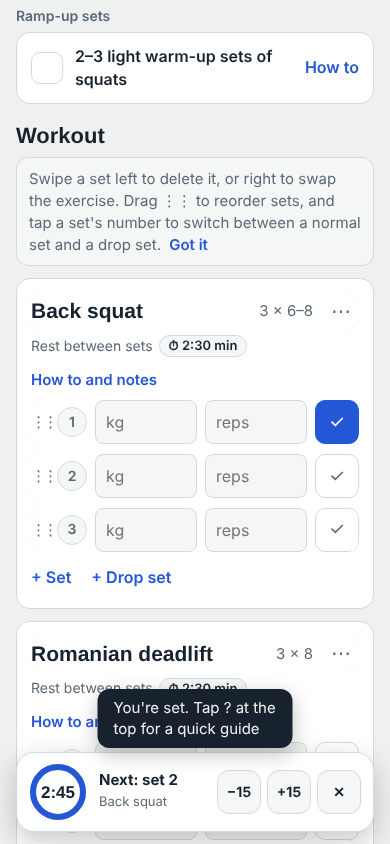
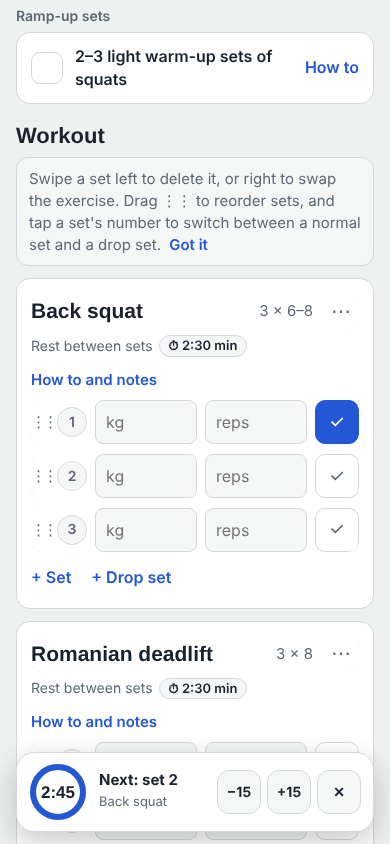
Add guided tour after setup
Dims the screen and highlights each part of the app in turn with a
short explanation. Can be replayed from the help guide.

Claude-Session: https://claude.ai/code/session_01PPQnAJQwZUgLDScDXN9x8H

Changed region(s): [[0.2462, 0.8009, 0.7692, 0.9242]]

diff --git a/index.html b/index.html
@@ -292,6 +292,22 @@ dialog.sheet::backdrop{background:rgba(0,0,0,.45)}
 .appname{display:flex;align-items:center;gap:8px;font-family:"Barlow Condensed","Arial Narrow",Arial,sans-serif;font-size:21px;font-weight:700;color:var(--ink)}
 .logo{display:block;width:30px;height:30px}
 .logo svg,.logo img{display:block;border-radius:7px}
+#tour{position:fixed;inset:0;z-index:60;display:none;touch-action:none}
+#tour.on{display:block}
+#tour .tspot{position:fixed;border-radius:14px;box-shadow:0 0 0 200vmax rgba(8,12,18,.66);transition:all .28s ease;pointer-events:none}
+#tour .tspot.ring{outline:2px solid #fff;outline-offset:2px}
+#tour .tcard{position:fixed;left:16px;right:16px;max-width:420px;margin:0 auto;background:var(--surface);color:var(--ink);border-radius:16px;padding:16px;box-shadow:0 12px 36px rgba(0,0,0,.35);transition:top .28s ease}
+#tour .tstep{font-size:12px;font-weight:700;letter-spacing:.06em;text-transform:uppercase;color:var(--muted)}
+#tour .tcard h3{font-size:24px;margin:4px 0 6px}
+#tour .tcard p{margin:0 0 12px;font-size:15px}
+#tour .tbtns{display:flex;align-items:center;gap:8px}
+#tour .tbtns .btn{margin:0;width:auto;flex:1}
+#tour .tskip{border:0;background:none;color:var(--muted);text-decoration:underline;padding:10px 4px;font-size:14px;margin-right:auto}
+#tour .tdots{display:flex;gap:4px;margin:0 0 10px}
+#tour .tdots i{width:6px;height:6px;border-radius:50%;background:var(--line)}
+#tour .tdots i.on{background:var(--blue)}
+body.touring{overflow:hidden}
+@media (prefers-reduced-motion: reduce){#tour .tspot,#tour .tcard{transition:none}}
 .appicons{display:flex;gap:8px}
 body.onboarding .top,body.onboarding .week,body.onboarding .tabs{display:none}
 body.onboarding .welcome{margin-top:12px}
@@ -1349,7 +1365,7 @@ function guessStore(n){return "Supermarket";}
 function products(){
   const S=store.settings;if(Array.isArray(S.products))return S.products;
   const out=prices().map((p,i)=>({id:"p"+i,n:String(p.n).replace(/\s*\(Naanhof\)/,""),store:guessStore(p.n),price:num(p.e),mode:"packs",q:num(p.q)}));
-  const c=chick();out.push({id:"pc",n:"Chicken, "+c.packKg+" kg pack",store:"Naanhof",price:num(c.packEur),mode:"grams",packG:num(c.packKg)*1000,gpd:num(c.g)});
+  const c=chick();out.push({id:"pc",n:"Chicken, "+c.packKg+" kg pack",store:"Supermarket",price:num(c.packEur),mode:"grams",packG:num(c.packKg)*1000,gpd:num(c.g)});
   return out;
 }
 function ensureProducts(){const S=store.settings;if(!Array.isArray(S.products))S.products=JSON.parse(JSON.stringify(products()));return S.products;}
@@ -1541,13 +1557,13 @@ $("panel").addEventListener("click",e=>{
   }
   else if(act==="welcome"){S.welcomed=true;persist("settings");renderTrain();}
   else if(act==="welcomeskip"||act==="welcomecalc"){welcomeManual=act==="welcomeskip";renderTrain();}
-  else if(act==="welcomeman"){if(!(num(S.kcal)>0&&num(S.protein)>0)){toast("Enter your calories and protein");return;}S.welcomed=true;persist("settings");render();toast("You're set. Tap ? at the top for a quick guide");}
+  else if(act==="welcomeman"){if(!(num(S.kcal)>0&&num(S.protein)>0)){toast("Enter your calories and protein");return;}S.welcomed=true;persist("settings");render();if(!S.toured)setTimeout(tourStart,350);}
   else if(act==="welcomego"){const pf=Object.assign({sex:"m",act:1.55,goal:-550},S.profile||{});
     if(!S.profile&&latestWeight())pf.w=latestWeight();
     const r=calcTargets(pf);if(!r){toast("Fill in your age, height and weight");const f=document.querySelector('.welcome [data-pf="a"]');if(f&&!f.value)f.focus();return;}
     S.profile=pf;S.kcal=Math.round(r.kc/10)*10;S.protein=Math.round(r.prot/5)*5;S.welcomed=true;
     const t=todayKey();if(!latestWeight()&&num(pf.w)>0){ensureDay(t).weight=String(pf.w);persist("day-"+t);}
-    persist("settings");render();toast("Your targets: "+fmt(S.kcal)+" kcal and "+S.protein+" g protein a day. Tap ? for a quick guide");}
+    persist("settings");render();toast("Your targets: "+fmt(S.kcal)+" kcal and "+S.protein+" g protein a day");if(!S.toured)setTimeout(tourStart,350);}
   else if(act==="rmmeal"){
     const id=b.dataset.opt;
     if(id.startsWith("m:")){S.myMeals=myMeals().filter(x=>"m:"+x.id!==id);}
@@ -1970,6 +1986,62 @@ sheetEl.addEventListener("close",()=>{sheetEl._kind=null;});
 $("gear").addEventListener("click",openSettings);
 
 $("gear").innerHTML=gearSvg;
+// ---------- Guided tour ----------
+const TOUR=[
+  {t:"Quick tour",x:"Here's a one-minute look around the app. Tap Next to go through it, or Skip if you'd rather explore yourself."},
+  {sel:".top",t:"Moving between days",x:"Use ‹ and › to go to other days. When you're on a different day, tap Back to today under the date."},
+  {sel:"#week",t:"Your week",x:"Each circle is a day. The colour shows which workout falls on it, and it fills up as you log. Tap a circle to jump to that day."},
+  {sel:".tabs",t:"Five sections",x:"Train, Eat, Body, Spend and History. Here's what each one does."},
+  {tab:"train",sel:".dayhead",t:"Today's workout",x:"The workout planned for today and how long to rest. The dropdown swaps today's workout, and Edit workout and schedule lets you build your own split."},
+  {tab:"train",sel:".card.routine",t:"Warm-up",x:"About 5 minutes before you lift. Tick each item as you go. How to shows the steps and which muscles it loosens up."},
+  {tab:"train",sel:"article.ex .exhead",t:"Exercises",x:"Each exercise shows its sets and reps. Tap ⋯ to swap it or remove it for today. Under the name: the rest time (tap ⏱ to change it), what you lifted last time, and How to with the movement shown from the side and front."},
+  {tab:"train",sel:'article.ex .swr[data-sw="set"]',t:"Logging a set",x:"Type the kg and reps, then tap ✓. That starts the rest timer at the bottom. Swipe a set left to delete it or right to swap the exercise, drag ⋮⋮ to reorder, and tap the number to make it a drop set."},
+  {tab:"eat",sel:".card.meters",t:"Eat: your targets",x:"How many calories and how much protein you've had today, against your targets."},
+  {tab:"eat",sel:"#panel .swr",t:"Meals",x:"Tick what you ate for breakfast, lunch, snack and dinner. Swipe right to edit a meal, left to remove it. Further down: a food calculator, a meal builder and your supplements."},
+  {tab:"body",sel:"#panel section > .card",t:"Body",x:"Log your morning weight here. Below it, the weekly trend shows your average, and the calculator can update your targets as your weight changes."},
+  {tab:"spend",sel:"#panel section > .card",t:"Spend",x:"What you've spent this week, two weeks or month. Below, log purchases by store and add the things you buy regularly so the app works out what they cost you."},
+  {tab:"hist",sel:"#panel section > .card",t:"History",x:"A month at a glance: workouts, average calories and protein, and spending. Tap any day to open it."},
+  {sel:"#help",t:"Help",x:"Tap ? any time for the full guide, or to take this tour again.",round:1},
+  {sel:"#gear",t:"Settings",x:"Light or dark mode, colours, rest timer options and backups.",round:1},
+  {tab:"train",t:"You're all set",x:"Start with today's warm-up and log your first set. Have a good session!"}
+];
+const tourEl=document.createElement("div");tourEl.id="tour";tourEl.setAttribute("role","dialog");tourEl.setAttribute("aria-modal","true");tourEl.setAttribute("aria-label","App tour");
+tourEl.innerHTML=`<div class="tspot"></div><div class="tcard" aria-live="polite"></div>`;document.body.appendChild(tourEl);
+let tourI=-1,tourDir=1;
+function tourStart(){closeSheet();clearTimeout(toastT);toastEl.classList.remove("show");tourI=0;tourDir=1;tourEl.classList.add("on");document.body.classList.add("touring");tourShow();}
+function tourEnd(){tourEl.classList.remove("on");document.body.classList.remove("touring");tourI=-1;
+  if(!store.settings.toured){store.settings.toured=true;persist("settings");}
+  if(tab!=="train"){tab="train";render();}window.scrollTo(0,0);}
+function tourShow(){
+  if(tourI<0)return;if(tourI>=TOUR.length){tourEnd();return;}
+  const st=TOUR[tourI];
+  if(st.tab&&tab!==st.tab){tab=st.tab;render();}
+  const t=st.sel?document.querySelector(st.sel):null;
+  if(st.sel&&(!t||!t.offsetParent)){tourI+=tourDir;if(tourI<0){tourI=0;tourDir=1;}tourShow();return;}
+  if(t){const r=t.getBoundingClientRect();if(r.top<70||r.bottom>innerHeight-230)window.scrollTo(0,Math.max(0,scrollY+r.top-90));}
+  else window.scrollTo(0,0);
+  const card=tourEl.querySelector(".tcard"),n=TOUR.length;
+  card.innerHTML=`<div class="tdots" aria-hidden="true">${TOUR.map((_,i)=>`<i class="${i===tourI?"on":""}"></i>`).join("")}</div><p class="tstep">${tourI+1} of ${n}</p><h3>${esc(st.t)}</h3><p>${esc(st.x)}</p>
+   <div class="tbtns">${tourI<n-1?`<button type="button" class="tskip" data-tour="skip">Skip tour</button>`:`<span style="margin-right:auto"></span>`}${tourI>0?`<button type="button" class="btn ghost" data-tour="back">Back</button>`:""}<button type="button" class="btn" data-tour="next">${tourI===n-1?"Start":"Next"}</button></div>`;
+  requestAnimationFrame(()=>tourPlace(t,st));
+  setTimeout(()=>{const b=card.querySelector('[data-tour="next"]');if(b)b.focus({preventScroll:true});},50);
+}
+function tourPlace(t,st){
+  if(tourI<0)return;
+  const spot=tourEl.querySelector(".tspot"),card=tourEl.querySelector(".tcard"),vh=innerHeight,ch=card.offsetHeight;
+  if(!t){Object.assign(spot.style,{left:"50%",top:"50%",width:"0px",height:"0px"});spot.classList.remove("ring");card.style.top=Math.max(16,(vh-ch)/2)+"px";return;}
+  const r=t.getBoundingClientRect(),p=st.round?4:6;
+  let top=Math.max(8,r.top-p),bot=Math.min(vh-8,r.bottom+p);
+  Object.assign(spot.style,{left:(r.left-p)+"px",top:top+"px",width:(r.width+2*p)+"px",height:Math.max(0,bot-top)+"px",borderRadius:st.round?"50%":"14px"});
+  spot.classList.add("ring");
+  let y;if(vh-bot>=ch+28)y=bot+14;else if(top>=ch+28)y=top-14-ch;else y=vh-ch-16;
+  card.style.top=Math.max(12,y)+"px";
+}
+tourEl.addEventListener("click",e=>{const b=e.target.closest("[data-tour]");if(!b)return;const a=b.dataset.tour;
+  if(a==="skip")tourEnd();else if(a==="next"){if(tourI===TOUR.length-1){tourEnd();return;}tourDir=1;tourI++;tourShow();}else if(a==="back"){tourDir=-1;tourI--;tourShow();}});
+tourEl.addEventListener("touchmove",e=>e.preventDefault(),{passive:false});
+addEventListener("resize",()=>{if(tourI>=0){const st=TOUR[tourI];tourPlace(st.sel?document.querySelector(st.sel):null,st);}});
+addEventListener("keydown",e=>{if(tourI<0)return;if(e.key==="Escape")tourEnd();else if(e.key==="ArrowRight"){tourEl.querySelector('[data-tour="next"]').click();}else if(e.key==="ArrowLeft"&&tourI>0){tourEl.querySelector('[data-tour="back"]').click();}});
 // ---------- Guide ----------
 function guideHtml(){
   const ua=navigator.userAgent||"",ios=/iPhone|iPad|iPod/.test(ua)||(/Macintosh/.test(ua)&&navigator.maxTouchPoints>1),android=/Android/.test(ua);
@@ -1977,7 +2049,7 @@ function guideHtml(){
   const iosB=`<ol><li>Open the app's web address in <b>Safari</b>. Chrome on iPhone works too, through the same Share menu.</li><li>Tap the <b>Share</b> button: the square with an arrow pointing up. On newer iPhones it's behind the <kbd>•••</kbd> button at the bottom right.</li><li>Scroll down and tap <b>Add to Home Screen</b>.</li><li>Leave <b>Open as Web App</b> switched on if you see it, then tap <b>Add</b>.</li></ol><p>Building Blocks now opens full screen from its own icon, like a normal app.</p>`;
   const andB=`<ol><li>Open the app's web address in <b>Chrome</b>.</li><li>Tap the <kbd>⋮</kbd> menu at the top right.</li><li>Tap <b>Add to Home screen</b> (sometimes called <b>Install app</b>), then <b>Install</b> or <b>Add</b>.</li></ol><p>Samsung Internet: tap <kbd>☰</kbd>, then <b>Add page to</b> → <b>Home screen</b>.</p>`;
   const devs=ios?[["iPhone and iPad",iosB,"Your phone"],["Android",andB]]:android?[["Android",andB,"Your phone"],["iPhone and iPad",iosB]]:[["iPhone and iPad",iosB],["Android",andB]];
-  return `<div class="guide">
+  return `<div class="guide"><button type="button" class="btn" style="margin:0 0 12px" data-gtour>Take the tour</button>
   ${sec("Getting started",`<ol><li>Set your daily calories and protein. If you don't know them, use <b>Calculate your targets</b> in the <b>Body</b> tab and tap <b>Use as my daily targets</b>.</li><li>On the <b>Train</b> tab, tap <b>Edit workout and schedule</b> to build your own split, or keep the sample one.</li><li>In the <b>Eat</b> tab, remove the sample meals you don't eat and add your own.</li></ol><p>Use <kbd>‹</kbd> and <kbd>›</kbd> at the top to move between days. On another day, tap <b>Back to today</b> under the date. Everything saves as you type.</p>`,true)}
   ${sec("Logging a workout",`<ul><li>Each exercise shows its sets. Type the <b>kg</b> and <b>reps</b>, then tap <kbd>✓</kbd> when the set is done.</li><li><b>+ Set</b> and <b>+ Drop set</b> add rows. Tap a set's number to switch it between a normal set and a drop set.</li><li>Drag <kbd>⋮⋮</kbd> to move a set up or down.</li><li><b>Last time</b> shows what you did in that exercise before. When you hit the top of the rep range on every set, it tells you to add weight.</li><li><b>How to and notes</b> shows the movement from the side (and from the front where it helps), which muscles it works, form cues and a box for your own notes, like seat height.</li><li>For bodyweight exercises the kg box is for <i>extra</i> weight, so leave it empty for plain pushups.</li></ul>`)}
   ${sec("Swiping, swapping and removing",`<ul><li>Swipe a <b>set</b> to the left to delete it (red), or to the right to swap the exercise.</li><li>Swipe a <b>food, purchase or meal</b> to the right to edit it, or to the left to delete it.</li><li>The <kbd>⋯</kbd> next to an exercise name lets you swap it or remove it just for today.</li><li>Deleted something by mistake? Tap <b>Undo</b> in the message at the bottom.</li></ul>`)}
@@ -1997,6 +2069,7 @@ function guideHtml(){
   </div>`;
 }
 function openGuide(){openSheet("How to use Building Blocks",guideHtml(),[{label:"Done"}]);sheetEl._kind="guide";}
+sheetEl.addEventListener("click",e=>{if(sheetEl._kind==="guide"&&e.target.closest("[data-gtour]")){closeSheet();setTimeout(tourStart,150);}});
 $("help").addEventListener("click",openGuide);
 // ---------- Backup (website version) ----------
 function isLocalMode(){return mode==="local";}

diff --git a/sw.js b/sw.js
@@ -1,6 +1,6 @@
 // Building Blocks service worker: lets the app open without internet.
 // Bump VERSION whenever index.html changes so phones pick up the update.
-const VERSION = "bb-2026-10-08-4";
+const VERSION = "bb-2026-10-08-5";
 const SHELL = ["./", "./index.html", "./manifest.webmanifest",
   "./icons/icon-192.png", "./icons/icon-512.png", "./icons/apple-touch-icon.png", "./icons/favicon-32.png"];
 
